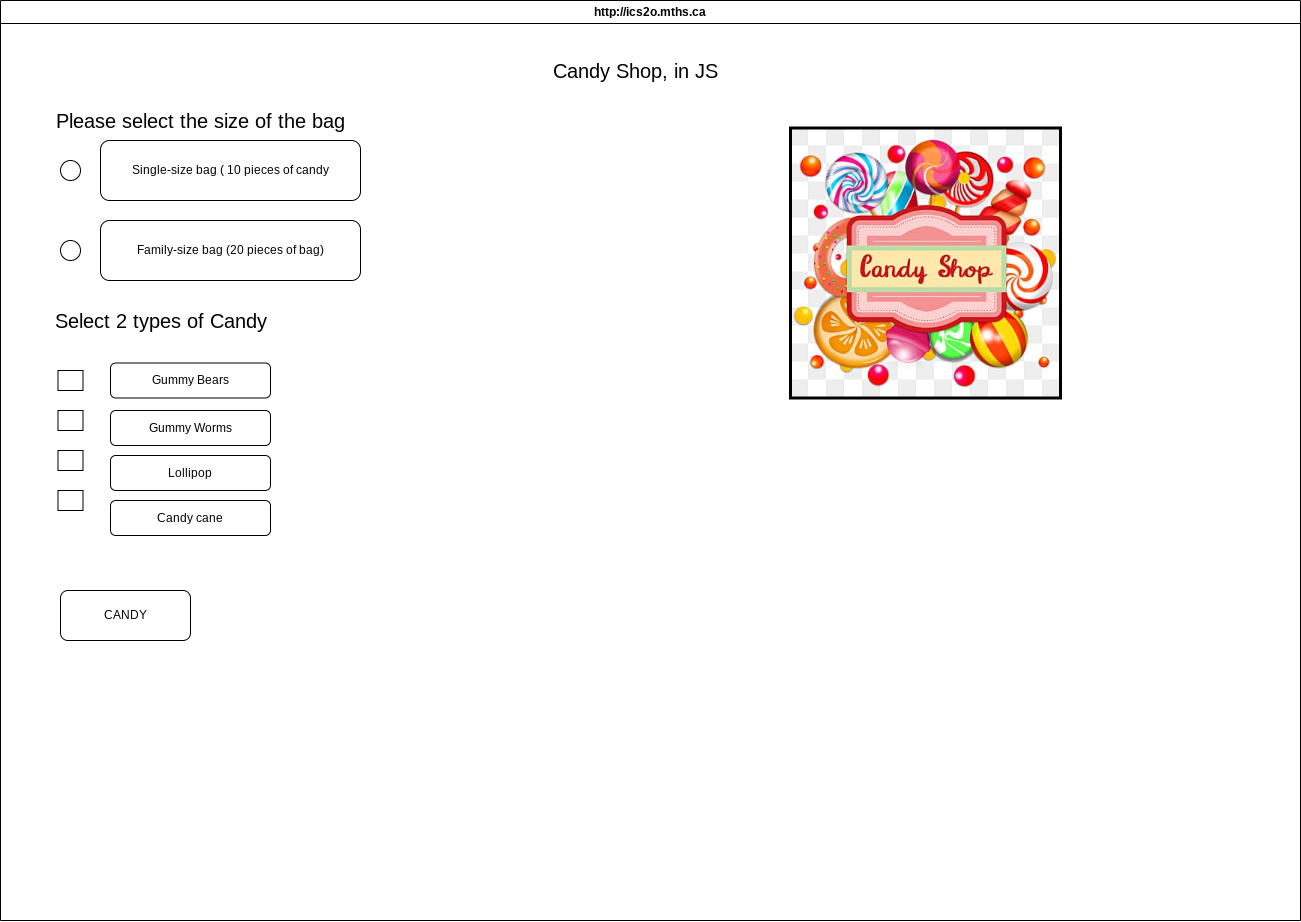
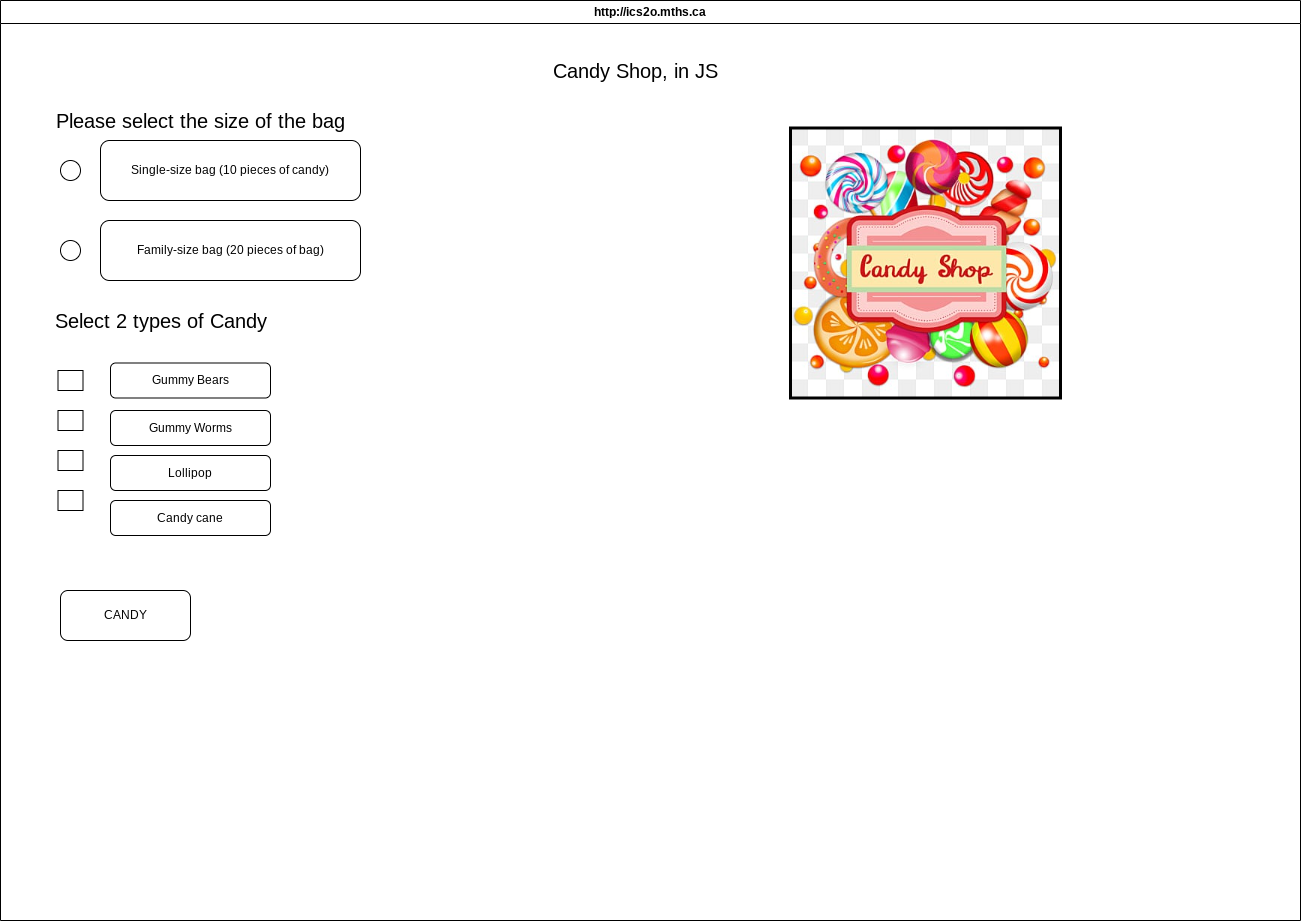
added storyboard and did code

diff --git a/index.html b/index.html
@@ -30,16 +30,16 @@
       <div class="right-image">
         <img src="./images/positive_negative.jpg" alt="positive and negative image" />
       </div>
-      <div class="page-content">Select what kind of number you would like.</div>
+      <div class="page-content">Select the size or pieces for your candies. YAY! </div>
       <form>
         <div class="page-options">
           <label class="mdl-radio mdl-js-radio mdl-js-ripple-effect" for="option-positive">
             <input type="radio" id="option-positive" class="mdl-radio__button" name="kind-of-number" value="1" checked>
-            <span class="mdl-radio__label">Positive</span>
+            <span class="mdl-radio__label">Sing-size bag (10 pieces of candy) </span>
           </label>
           <label class="mdl-radio mdl-js-radio mdl-js-ripple-effect" for="option-negative">
             <input type="radio" id="option-negative" class="mdl-radio__button" name="kind-of-number" value="2">
-            <span class="mdl-radio__label">Negative</span>
+            <span class="mdl-radio__label">Family-size bag (20 pieces of candy) </span>
           </label>
         </div>
         <br />
